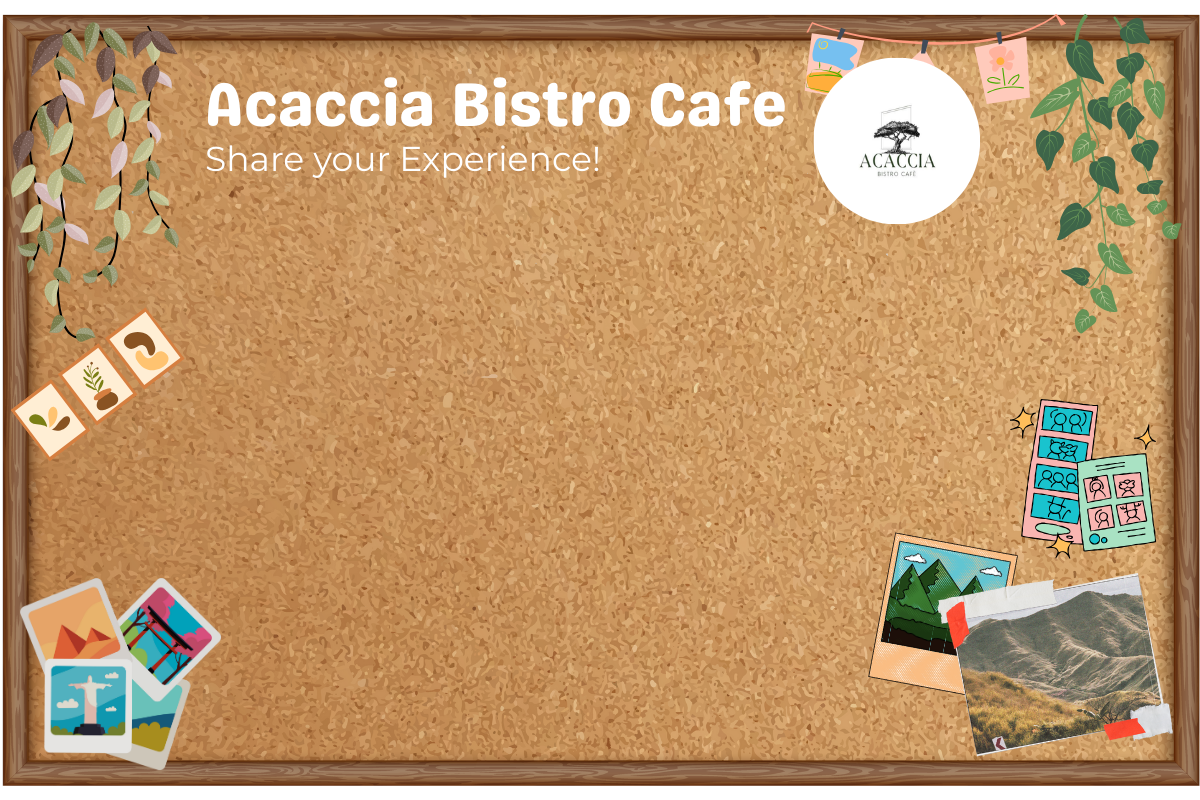
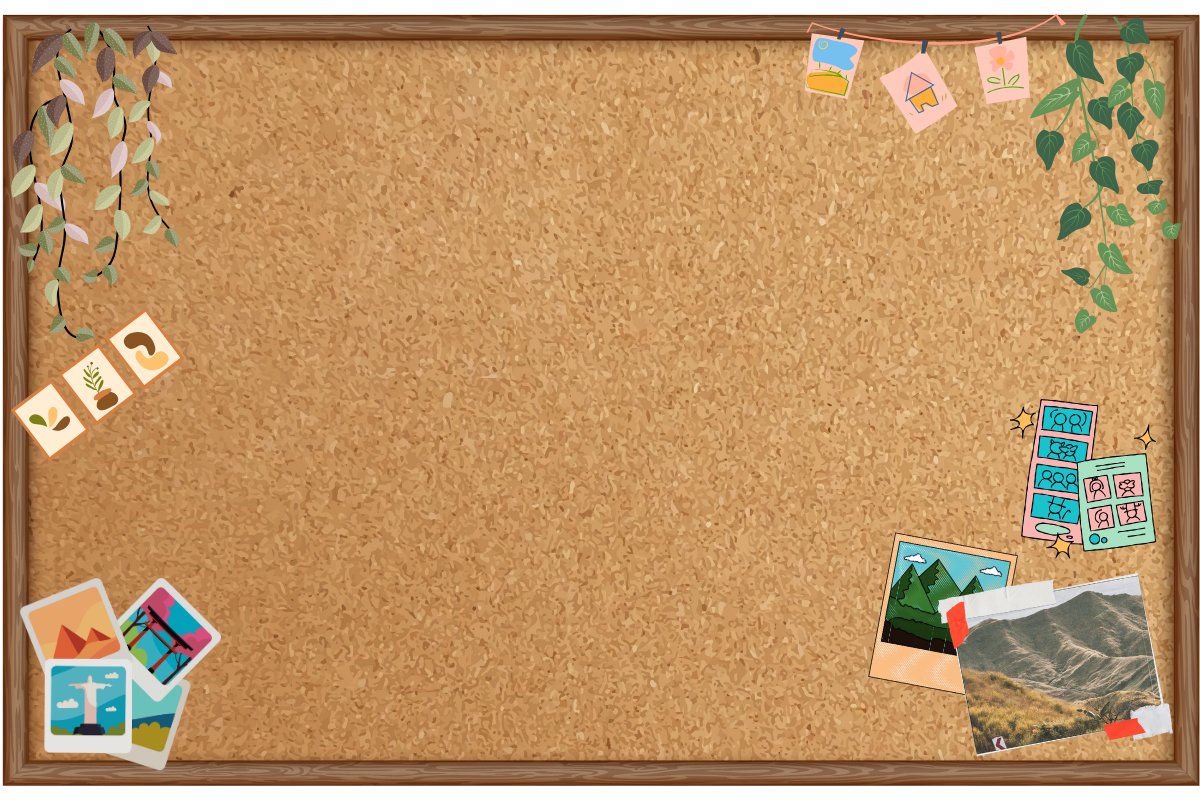
made the reservation and bulletin board mobile responsive

Changed region(s): [[0.1542, 0.0625, 0.8325, 0.2812], [0.1542, 0.1875, 0.4933, 0.2188]]

diff --git a/customer-ui-style.css b/customer-ui-style.css
@@ -2246,6 +2246,12 @@ input[type="text"]:focus {
     .reservation-form {
         padding: 20px;
     }
+    .cafe-layout {
+        min-height: auto; /* This removes the 600px gap */
+    }
+    #secondFloorContainer {
+        position: relative; /* Fixes the overlap bug */
+    }
     .table-spot,
     .vip-room-btn {
         transform: scale(0.8) !important;
@@ -2276,43 +2282,99 @@ input[type="text"]:focus {
         grid-template-columns: 1fr;
     }
 
-    /* --- PAGE: community-feedback.html --- */
-    .community-section {
+
+/* --- PAGE: community-feedback.html (Percentage Sizing Fix) --- */
+    .community-section h2 {
+        font-size: 2rem; /* Smaller title */
+        margin-bottom: 15px;
+    }
+    .bulletin-instructions {
+        padding: 10px;
+        margin-bottom: 15px; /* Space between instructions and board */
+        background: rgba(255, 255, 255, 0.05);
+        border-radius: 8px;
+    }
+    .bulletin-instructions p {
+        font-size: 0.9rem; /* Smaller instruction text */
+        margin: 4px 0;
+    }    
+.community-section {
         padding: 15px;
     }
+
+    /* 1. This is the main container. We remove any
+       fixed height just like we did on the reservation page.
+    */
     .bulletin-board-container-large {
-        background: #D2B48C;
-        border: none;
+        min-height: auto;
         height: auto;
-        min-height: 50vh;
-        overflow: visible;
+        overflow: hidden;
     }
-    .bulletin-board-image,
+
+    /* 2. This is the image of the bulletin board.
+       We MUST make sure it is visible.
+    */
+    .bulletin-board-image {
+        display: block !important; /* Overrides inline JS */
+    }
     .bulletin-placeholder {
         display: none;
     }
+
+    /* 3. This is the container for all the spots. 
+       We leave it as 'position: absolute'.
+    */
     .photo-spots {
-        position: static;
-        display: grid;
-        grid-template-columns: 1fr;
-        gap: 15px;
-        padding: 15px;
-        height: auto;
-        pointer-events: auto;
+        position: absolute;
+        top: 0;
+        left: 0;
+        width: 100%;
+        height: 100%;
+        pointer-events: none;
     }
+
+    /* * 4. THE FIX:
+     * We override the *desktop* fixed pixel size (120x100px)
+     * with a *mobile* percentage size (22x20%).
+     * * We DO NOT touch the 'transform' property here.
+     * This allows the inline style="...transform..." from your HTML
+     * to continue working for centering and rotating.
+    */
     .photo-spot {
-        position: static;
-        width: 100%;
-        height: auto;
-        transform: none !important;
+        width: 22%;  /* Replaces 120px */
+        height: 20%; /* Replaces 100px */
     }
+
+    /* 5. Style the *empty* spot */
     .photo-placeholder-spot {
-        height: 120px;
+        border-width: 1px;
+        border-radius: 4px;
+        padding: 4px;
+        font-size: 10px;
+        line-height: 1.2;
     }
+    .photo-placeholder-spot span {
+        font-size: 24px;
+        margin-bottom: 2px;
+    }
+    .photo-placeholder-spot p {
+        display: block;
+        font-size: 8px;
+        color: #666;
+    }
+
+    /* 6. Style the *filled* spot (the <img> tag) */
     .submitted-photo {
-        height: 200px;
         width: 100%;
+        height: 100%;
+        object-fit: cover;
+        border-radius: 8px;
     }
+    .photo-author {
+        display: none; /* Hides the username and rating */
+    }
+    
+    /* 7. Modal responsive rule */
     .photo-modal .modal-content {
         width: 95%;
         margin: 5% auto;

diff --git a/community-feedback.html b/community-feedback.html
@@ -534,6 +534,10 @@
     <div class="community-background">
         <div class="community-section">
             <h2>Community Bulletin Board</h2>
+                    <div class="bulletin-instructions">
+                    <p>🖼 Click on any empty spot to add your photo and review!</p>
+                    <p>📌 Share your cafe moments with the community</p>
+                </div>
             
             <div class="bulletin-board-main">
                 <div class="bulletin-board-container-large" id="bulletinBoardContainer">
@@ -590,10 +594,7 @@
                     </div>
                     </div>
                 
-                <div class="bulletin-instructions">
-                    <p>🖼 Click on any empty spot to add your photo and review!</p>
-                    <p>📌 Share your cafe moments with the community</p>
-                </div>
+
             </div>
             
             <div class="photo-modal" id="photoModal">
@@ -704,7 +705,7 @@ import {
   doc,
   getDoc,
   Timestamp,
-  where // <-- Make sure this is imported
+  where 
 } from "https://www.gstatic.com/firebasejs/12.3.0/firebase-firestore.js";
 import { getAuth, onAuthStateChanged } from "https://www.gstatic.com/firebasejs/12.3.0/firebase-auth.js";
 
@@ -896,12 +897,18 @@ function updatePhotoSpot(spotNumber, photoData) {
   if (!spot) return;
 
   spot.classList.add('filled');
+  
+  // --- THIS IS THE FIX ---
+  // We are creating *only* an img tag.
+  // The div.photo-placeholder-spot and div.photo-author are removed.
   spot.innerHTML = `
-    <div class="photo-placeholder-spot">
-      <img src="${photoData.imageUrl}" alt="Community photo" class="submitted-photo">
-      <div class="photo-author">${photoData.rating} ${photoData.author}</div>
-    </div>
+    <img src="${photoData.imageUrl}" 
+         alt="Community photo" 
+         class="submitted-photo" 
+         style="width: 100%; height: 100%; object-fit: cover; border-radius: 8px;">
   `;
+  // --- END OF FIX ---
+
   spot.onclick = () => viewPhotoDetails(spotNumber);
 }
 
